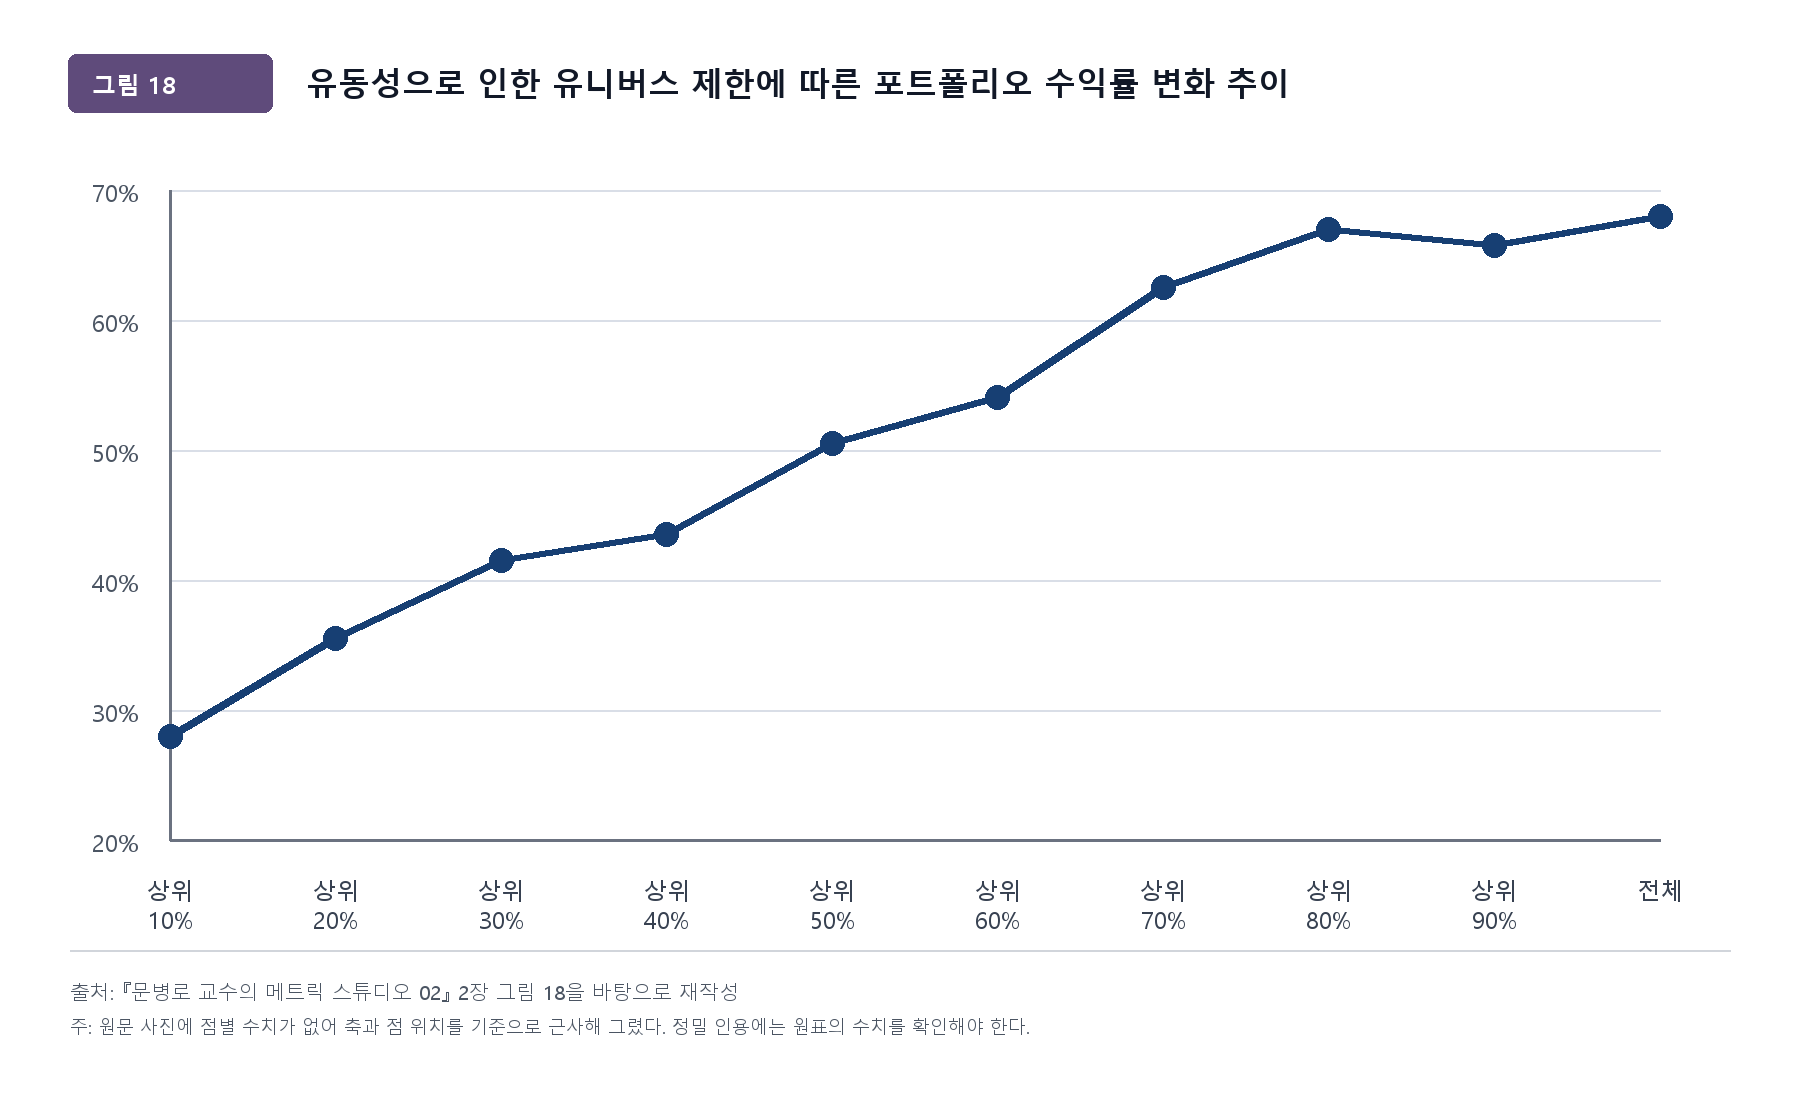
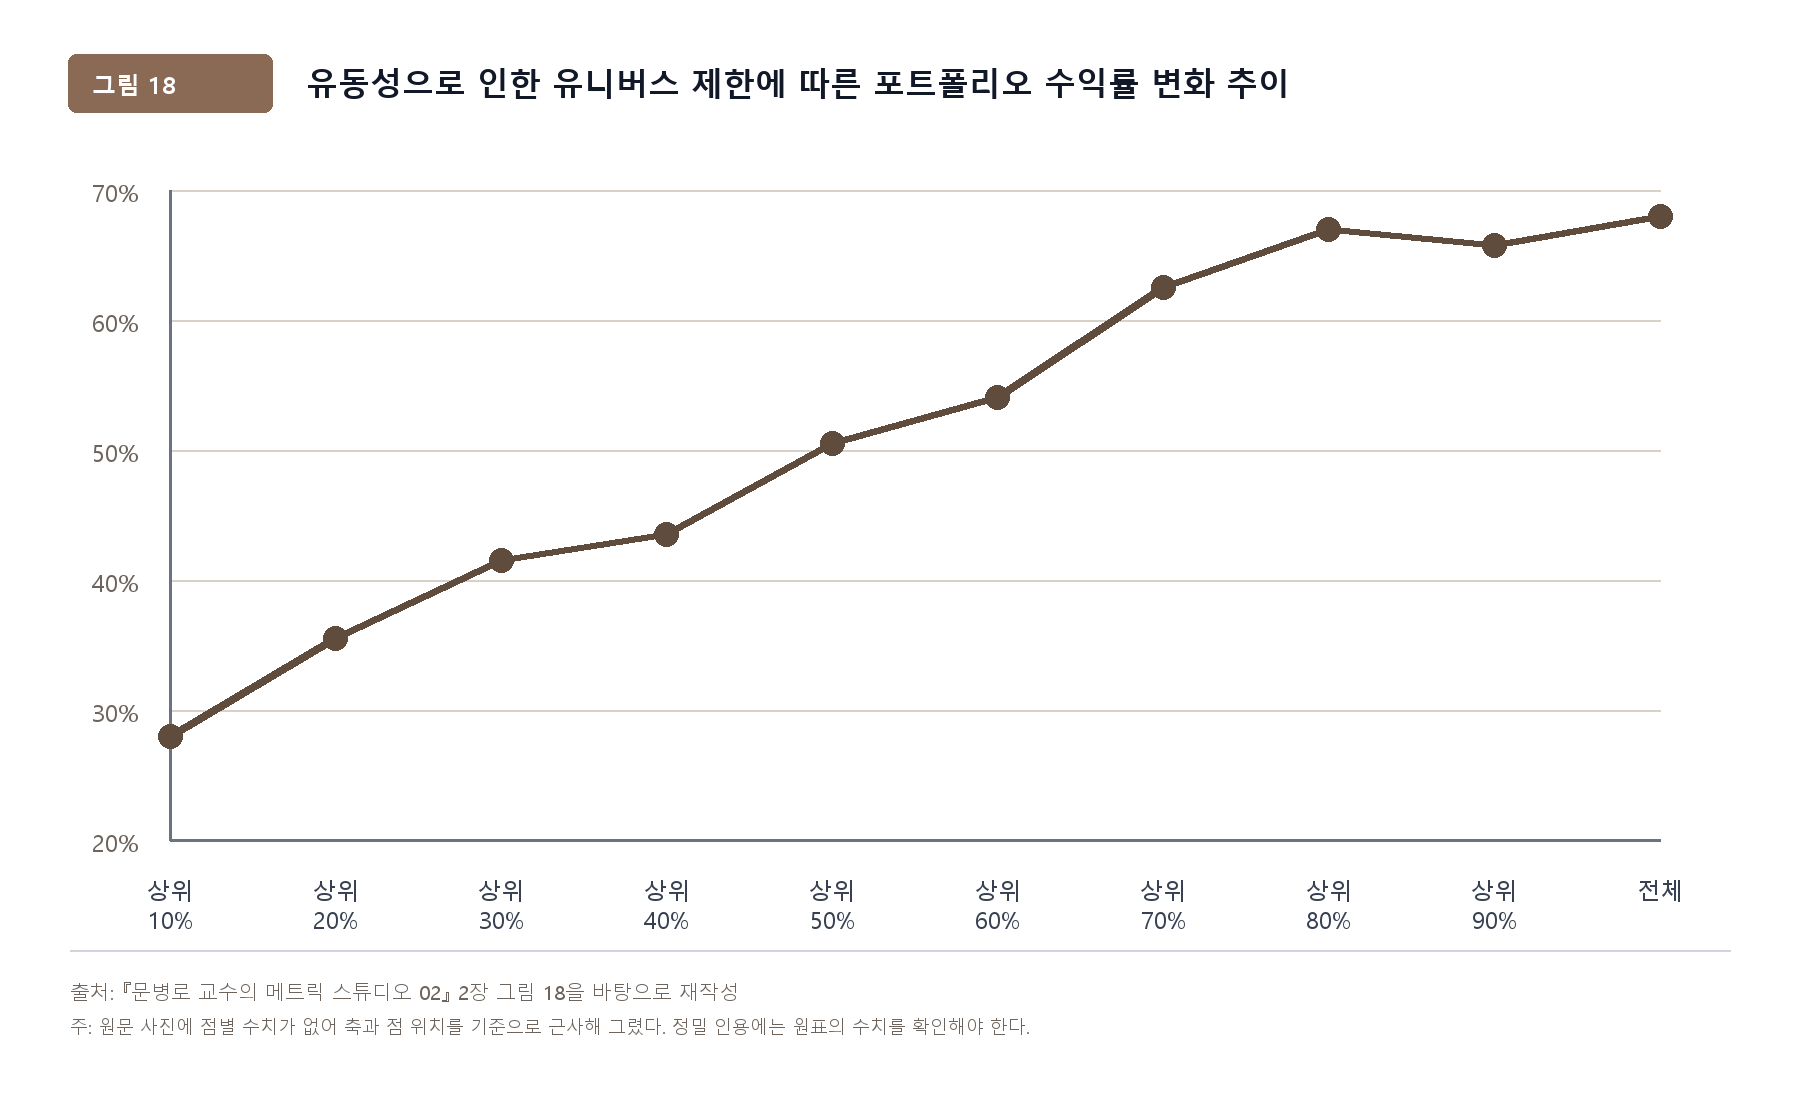
Split part one charts and revise visual palette

diff --git a/tools/build_blog_assets.py b/tools/build_blog_assets.py
@@ -164,8 +164,9 @@ def robustness_summary_chart(rows: list[dict[str, str]]) -> None:
 
     image = Image.new("RGB", (1600, 900), "white")
     draw = ImageDraw.Draw(image)
-    navy, muted, grid = "#1F2937", "#667085", "#E5E7EB"
-    lowvol, smallcap, neutral = "#247BA0", "#E76F51", "#B7C0CC"
+    # Muted print-like palette; avoid dashboard blue/orange.
+    navy, muted, grid = "#3F3A34", "#756D63", "#DDD7CE"
+    lowvol, smallcap, neutral = "#677A54", "#9A5A44", "#B7B1A8"
 
     # Familiar horizontal bar chart.
     draw.text((70, 45), "신호별 안정적인 조합 수", fill=navy, font=font(28, True))
@@ -214,7 +215,9 @@ def robustness_summary_chart(rows: list[dict[str, str]]) -> None:
     draw.text((1178, 508), "저변동성", fill=navy, font=font(15))
     draw.rectangle((1320, 510, 1338, 528), fill=smallcap)
     draw.text((1348, 508), "소형주", fill=navy, font=font(15))
-    save_png(image, "01_robustness_map.png")
+    # These answer different questions, so publish them as separate figures.
+    save_png(image.crop((0, 0, 1600, 450)), "01a_signal_stability.png")
+    save_png(image.crop((0, 450, 1600, 900)), "01b_liquidity_stability.png")
 
 
 def evidence_summary() -> None:
@@ -428,13 +431,13 @@ def participation_sensitivity_chart() -> None:
         low = int(row["low_volatility_nodes"])
         small = int(row["small_cap_nodes"])
         low_h, small_h = int(low * scale), int(small * scale)
-        draw.rectangle((x, base_y - low_h, x + 135, base_y), fill="#247BA0")
-        draw.rectangle((x, base_y - low_h - small_h, x + 135, base_y - low_h), fill="#E76F51")
+        draw.rectangle((x, base_y - low_h, x + 135, base_y), fill="#677A54")
+        draw.rectangle((x, base_y - low_h - small_h, x + 135, base_y - low_h), fill="#9A5A44")
         draw.text((x + 41, base_y - low_h - small_h - 34), str(low + small), fill="#1F2937", font=font(21, True))
         draw.text((x + 35, base_y + 22), labels[index], fill="#1F2937", font=font(17, True))
-    draw.rectangle((740, 120, 758, 138), fill="#247BA0")
+    draw.rectangle((740, 120, 758, 138), fill="#677A54")
     draw.text((770, 118), "저변동성", fill="#374151", font=font(15))
-    draw.rectangle((900, 120, 918, 138), fill="#E76F51")
+    draw.rectangle((900, 120, 918, 138), fill="#9A5A44")
     draw.text((930, 118), "소형주", fill="#374151", font=font(15))
     draw.text((500, 555), "종목당 최대 참여율", fill="#6B7280", font=font(15))
     save_png(image, "11_participation_sensitivity.png")
@@ -491,8 +494,8 @@ def book_figure_18_recreated() -> None:
     values = [28.0, 35.5, 41.5, 43.5, 50.5, 54.0, 62.5, 67.0, 65.7, 68.0]
     image = Image.new("RGB", (1800, 1120), "white")
     draw = ImageDraw.Draw(image)
-    navy, muted, grid = "#173F73", "#4B5563", "#D9DEE7"
-    draw.rounded_rectangle((68, 54, 272, 112), radius=8, fill="#5F4B7B")
+    navy, muted, grid = "#604C3C", "#6D655D", "#D8D1C8"
+    draw.rounded_rectangle((68, 54, 272, 112), radius=8, fill="#8A6A55")
     draw.text((92, 67), "그림 18", fill="white", font=font(24, True))
     draw.text((306, 61), "유동성으로 인한 유니버스 제한에 따른 포트폴리오 수익률 변화 추이", fill="#111827", font=font(32, True))
     left, top, right, bottom = 170, 190, 1660, 840

diff --git a/tools/build_blog_style_docx.py b/tools/build_blog_style_docx.py
@@ -22,7 +22,8 @@ packet.IMAGE_MAP = {
     "01_알파는_봉우리인가_대륙인가.md": [
         ("book_figure_18_liquidity_universe_recreated.png", "책 2장 그림 18. 유동성 유니버스 제한에 따른 포트폴리오 수익률 변화 추이(사진 기준 재작성)"),
         ("11_participation_sensitivity.png", "그림 2. 종목당 최대 참여율 가정에 따른 안정적인 조합 수"),
-        ("01_robustness_map.png", "그림 1. 유동성·비용 조건별로 살아남은 전략 조합"),
+        ("01a_signal_stability.png", "그림 1. 신호별 안정적인 조합 수"),
+        ("01b_liquidity_stability.png", "그림 2. 유동성 유니버스별 안정적인 조합 수"),
     ],
     "02_거래회전율은_관심이_아니었다.md": [
         ("03_observed_news_attention.png", "그림 1. 원천 뉴스량별 모멘텀 Rank IC"),